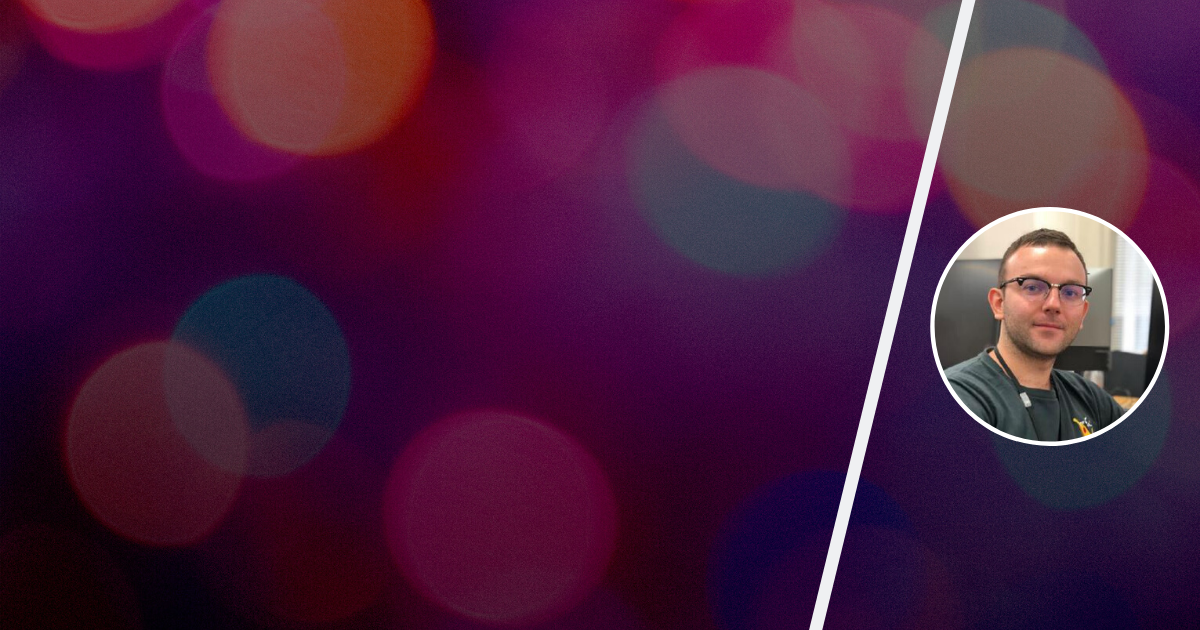
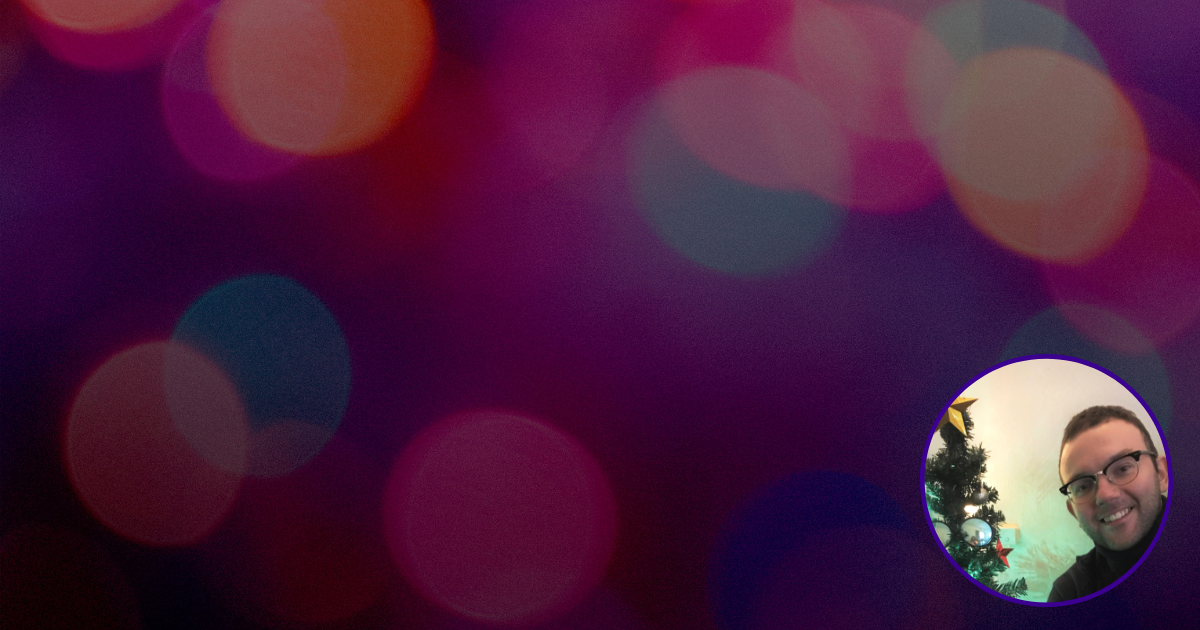
Change social card

Changed region(s): [[0.6475, 0.0, 0.9867, 1.0]]

diff --git a/gatsby-config.js b/gatsby-config.js
@@ -30,7 +30,7 @@ module.exports = {
               title: "phantasia[i]", // website title
               separator: "|", // default
               author: "Kirill Vasiltsov",
-              background: require.resolve("./src/assets/social_card_3.png"), // path to 1200x630px file or hex code, defaults to black (#000000)
+              background: require.resolve("./src/assets/social_card.png"), // path to 1200x630px file or hex code, defaults to black (#000000)
               fontColor: "#ffffff", // defaults to white (#ffffff)
               titleFontSize: 96, // default
               subtitleFontSize: 60, // default
